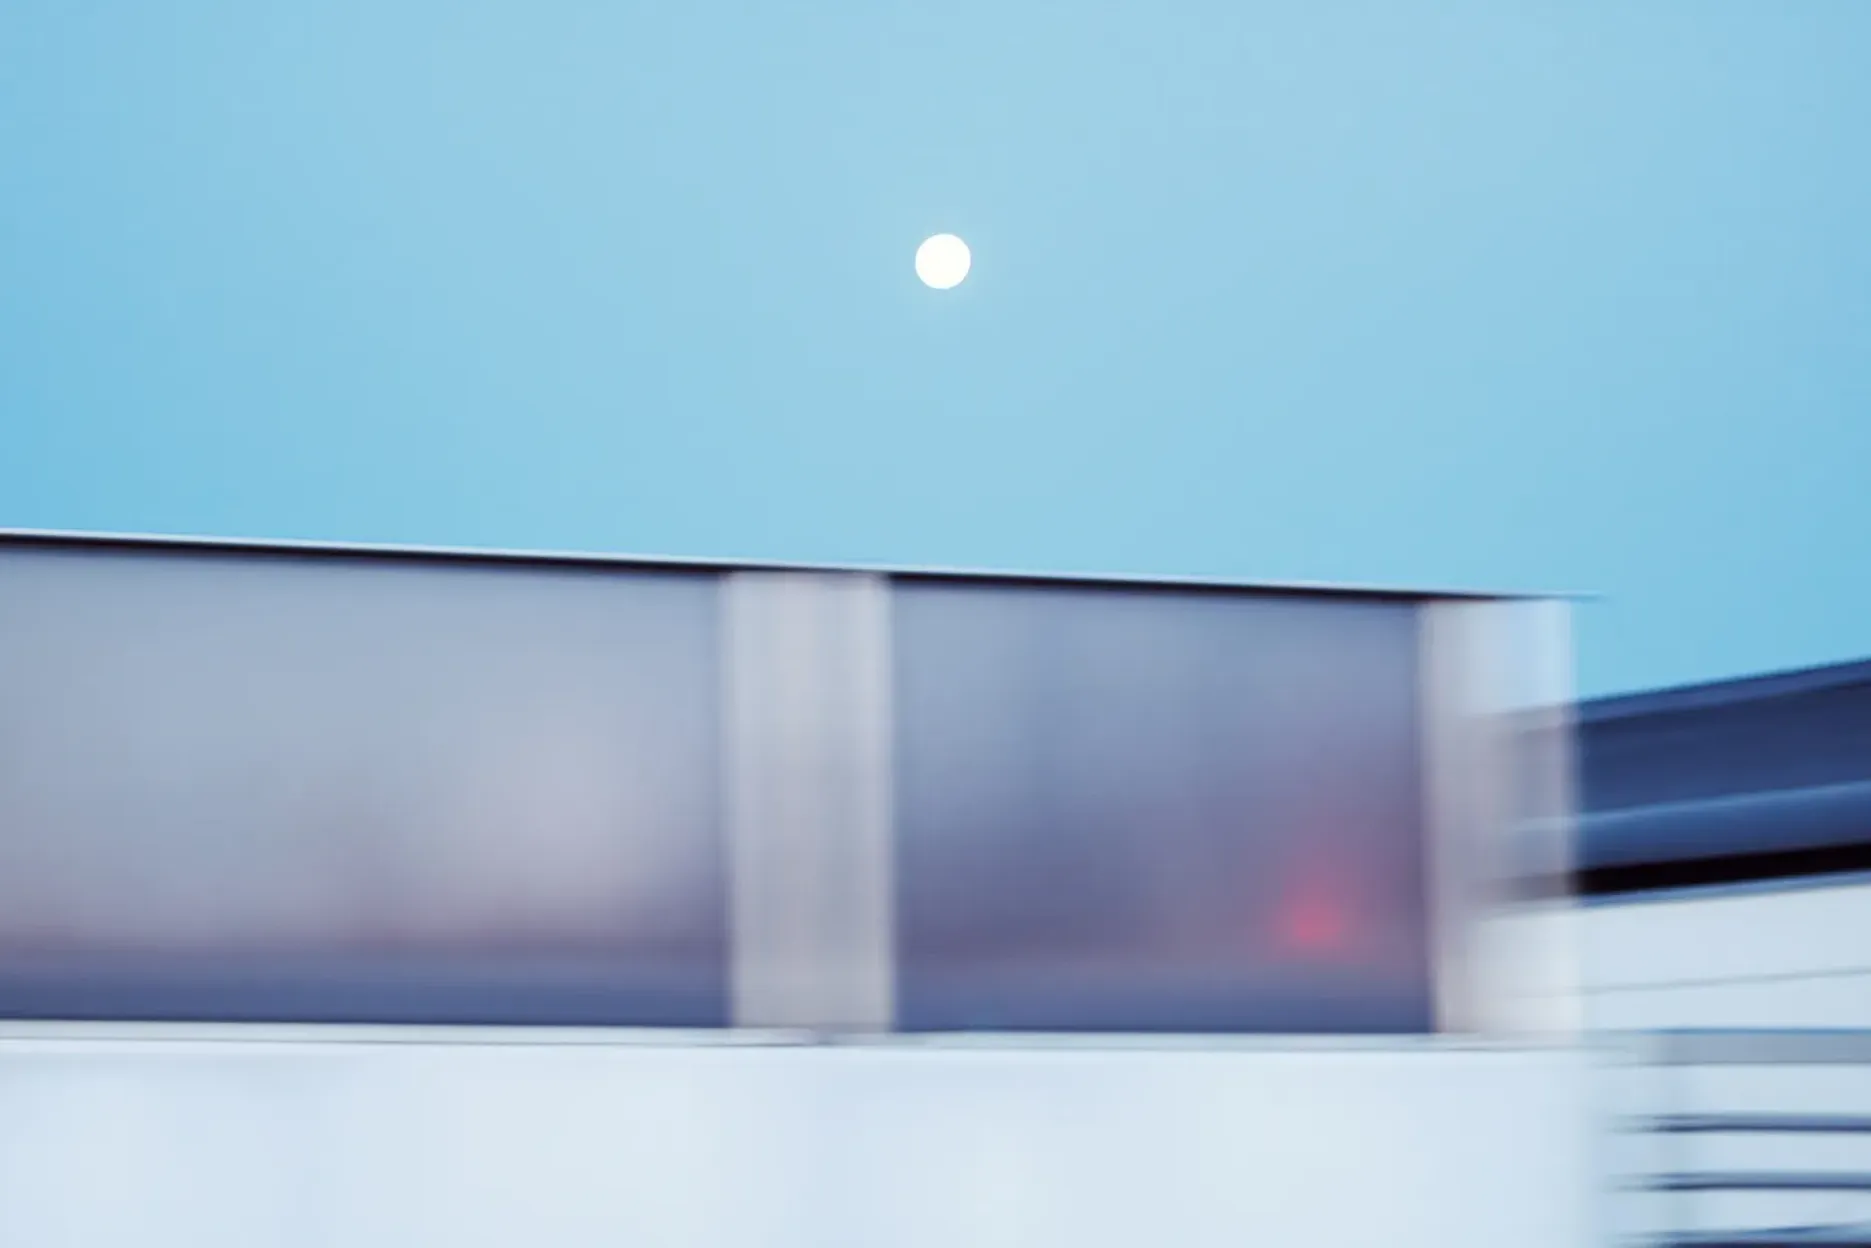
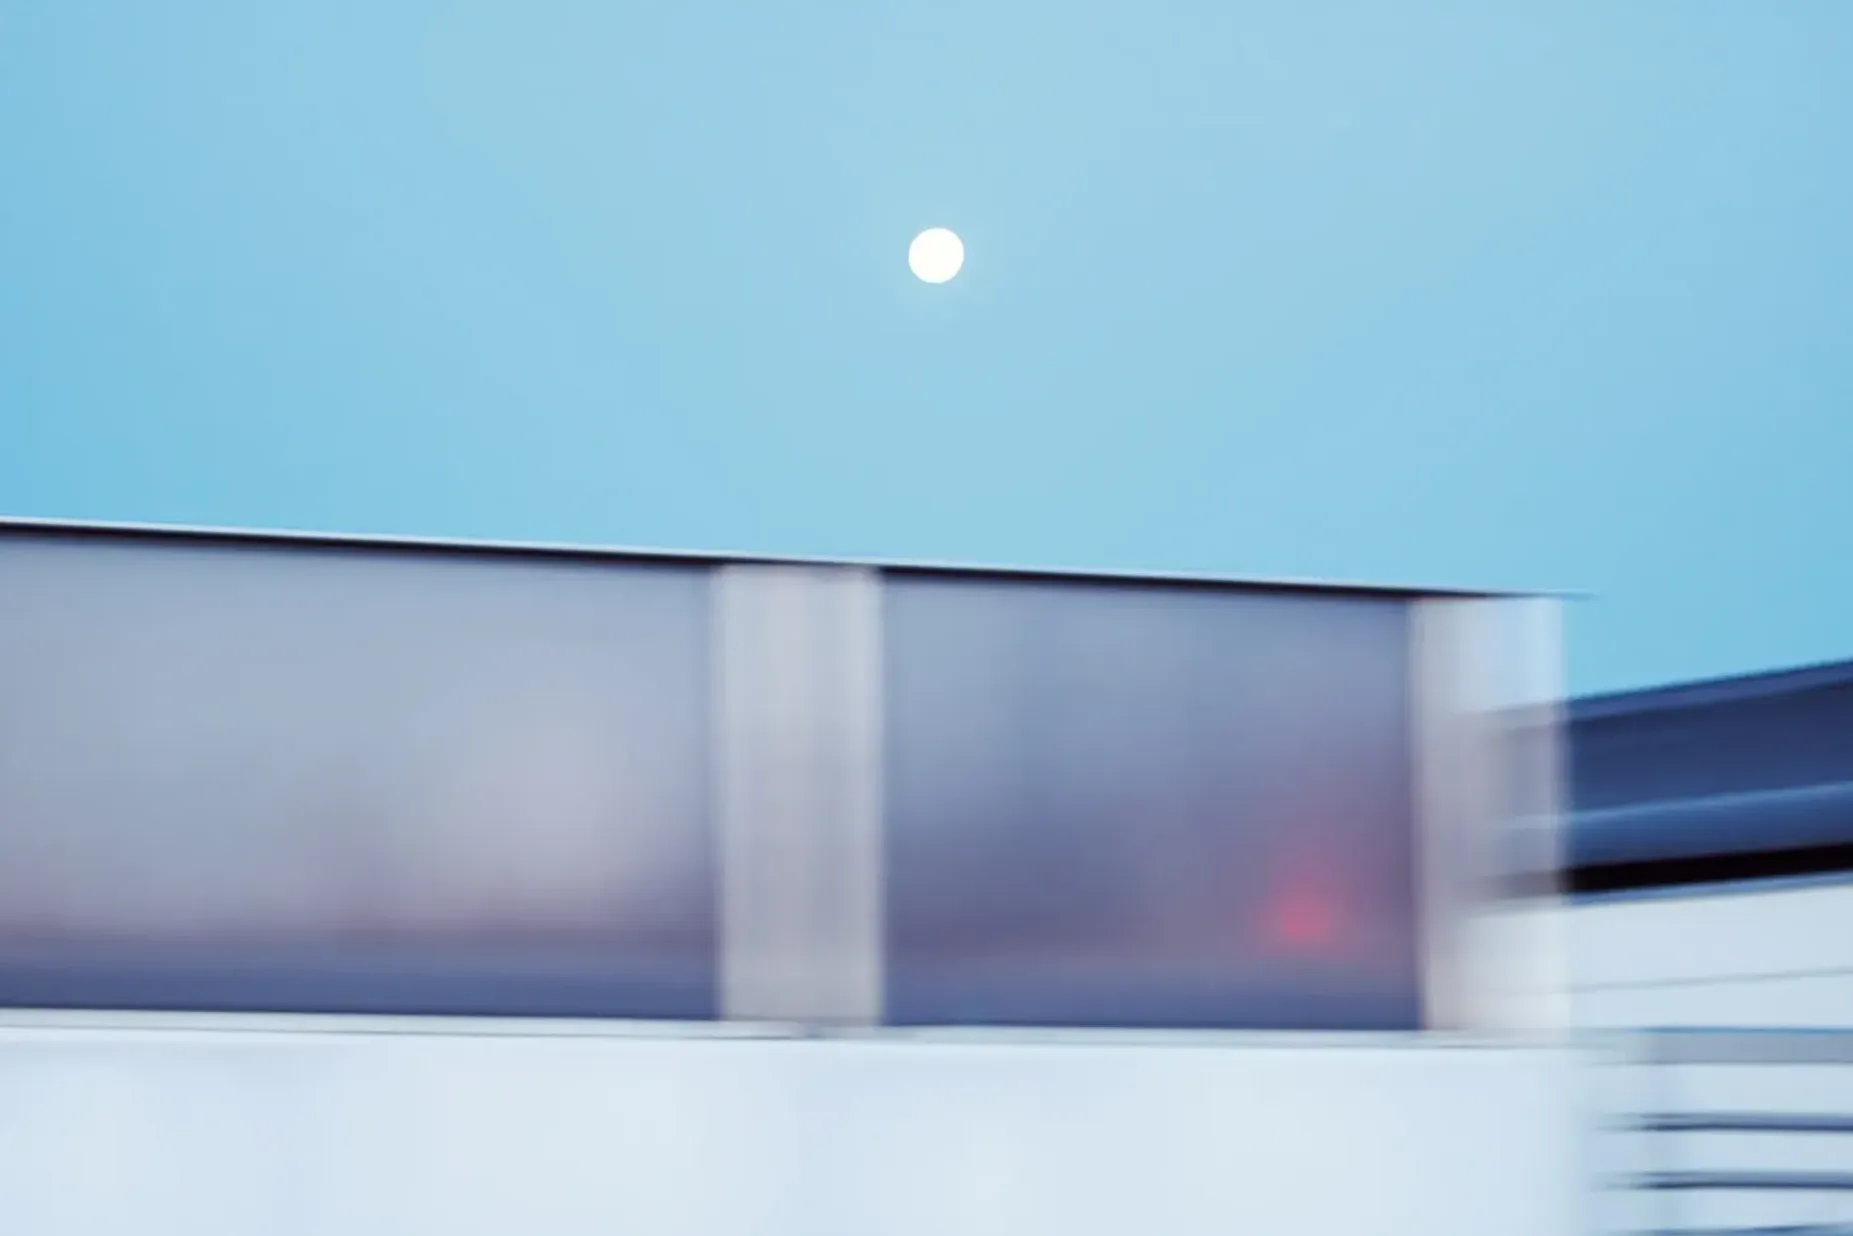
10/1-1

diff --git a/photo-site/snap.html b/photo-site/snap.html
@@ -45,13 +45,14 @@
     <main class="content">
       <section class="photo-gallery container blur-in">
         
-       
+       <!-- 月 -->
         <div class="photo-grid grid-1col">
           <div class="photo-item">
             <img src="img/snap/snap-01.webp" alt="スナップ写真1">
           </div>
         </div>
-
+         
+<!-- 祭り -->
         <div class="photo-grid grid-2col">
           <div class="photo-item">
             <img src="img/snap/snap-02.webp" alt="スナップ写真2">
@@ -60,19 +61,14 @@
             <img src="img/snap/snap-03.webp" alt="スナップ写真3">
           </div>
         </div>
-
-           <div class="photo-grid grid-1col">
-          <div class="photo-item">
-            <img src="img/snap/snap-04.webp" alt="スナップ写真4">
-          </div>
-        </div>
-         
+    
+         <!-- 日の出湯 -->
         <div class="photo-grid grid-1col">
           <div class="photo-item">
             <img src="img/snap/snap-05.webp" alt="スナップ写真5">
           </div>
         </div>
-
+<!-- 建物 -->
         <div class="photo-grid grid-2col">
           <div class="photo-item">
             <img src="img/snap/snap-06.webp" alt="スナップ写真6">
@@ -81,7 +77,7 @@
             <img src="img/snap/snap-07.webp" alt="スナップ写真7">
           </div>
         </div>
-      
+      <!-- 火祭り -->
         <div class="photo-grid grid-2col">
           <div class="photo-item">
             <img src="img/snap/snap-08.webp" alt="スナップ写真8">
@@ -90,19 +86,21 @@
             <img src="img/snap/snap-09.webp" alt="スナップ写真9">
           </div>
         </div>
-        
+        <!-- 大槌祭り -->
         <div class="photo-grid grid-1col">
           <div class="photo-item">
             <img src="img/snap/snap-10.webp" alt="スナップ写真10">
           </div>
         </div>
-
+       
+<!-- 山 -->
           <div class="photo-grid grid-1col">
           <div class="photo-item">
             <img src="img/snap/snap-11.webp" alt="スナップ写真11">
           </div>
         </div>
-   
+      
+   <!-- 光 -->
         <div class="photo-grid grid-2col">
           <div class="photo-item">
             <img src="img/snap/snap-12.webp" alt="スナップ写真12">
@@ -111,13 +109,13 @@
             <img src="img/snap/snap-13.webp" alt="スナップ写真13">
           </div>
         </div>
-
+<!-- マンション -->
              <div class="photo-grid grid-1col">
           <div class="photo-item">
             <img src="img/snap/snap-14.webp" alt="スナップ写真18">
           </div>
         </div>
-         
+         <!-- 鳥と水 -->
           <div class="photo-grid grid-2col">
           <div class="photo-item">
             <img src="img/snap/snap-15.webp" alt="スナップ写真12">
@@ -126,23 +124,52 @@
             <img src="img/snap/snap-16.webp" alt="スナップ写真13">
           </div>
         </div>
-
-             <div class="photo-grid grid-1col">
-          <div class="photo-item">
-            <img src="img/snap/snap-17.webp" alt="スナップ写真18">
-          </div>
-        </div>
-        
-
-        
+                
+  <!-- 家 -->
              <div class="photo-grid grid-1col">
           <div class="photo-item">
             <img src="img/snap/snap-18.webp" alt="スナップ写真18">
           </div>
         </div>
         
-   
-   
+             
+
+<!-- 花 -->
+             <div class="photo-grid grid-1col">
+          <div class="photo-item">
+            <img src="img/snap/snap-21.webp" alt="スナップ写真18">
+          </div>
+        </div>
+      
+      
+                
+     <!-- ぼかし建物 -->
+        <div class="photo-grid grid-1col">
+          <div class="photo-item">
+            <img src="img/snap/snap-34.webp" alt="スナップ写真5">
+          </div>
+        </div>
+      
+          <!-- トンネル -->
+        <div class="photo-grid grid-1col">
+          <div class="photo-item">
+            <img src="img/snap/snap-19.webp" alt="スナップ写真5">
+          </div>
+        </div>
+            <!-- くるま-->
+        <div class="photo-grid grid-1col">
+          <div class="photo-item">
+            <img src="img/snap/snap-36.webp" alt="スナップ写真5">
+          </div>
+        </div>
+           
+     <!-- 月水色 -->
+        <div class="photo-grid grid-1col">
+          <div class="photo-item">
+            <img src="img/snap/snap-33.webp" alt="スナップ写真5">
+          </div>
+        </div>
+        
       </section>
 
       <!-- 戻るボタン -->

diff --git a/photo-site/gallery.html b/photo-site/gallery.html
@@ -54,8 +54,8 @@
             <div class="gallery-text-box">
   <h2 class="gallery-title">Portrait</h2>
   <p class="gallery-text">散歩をしながら友人たちを撮影しています。<br>
-    どこへ一緒に行って何の話をしたのか。<br>
-    ずっと忘れないための、大切な時間の記録です。</p>
+    どんな景色を一緒にみて、なんの話をしたのか。<br>
+    この目に映る大切な時間を残しています。</p>
 <span class="view-more">View More <span class="arrow">&rsaquo;&rsaquo;</span></span>
 </div>
           </a>
